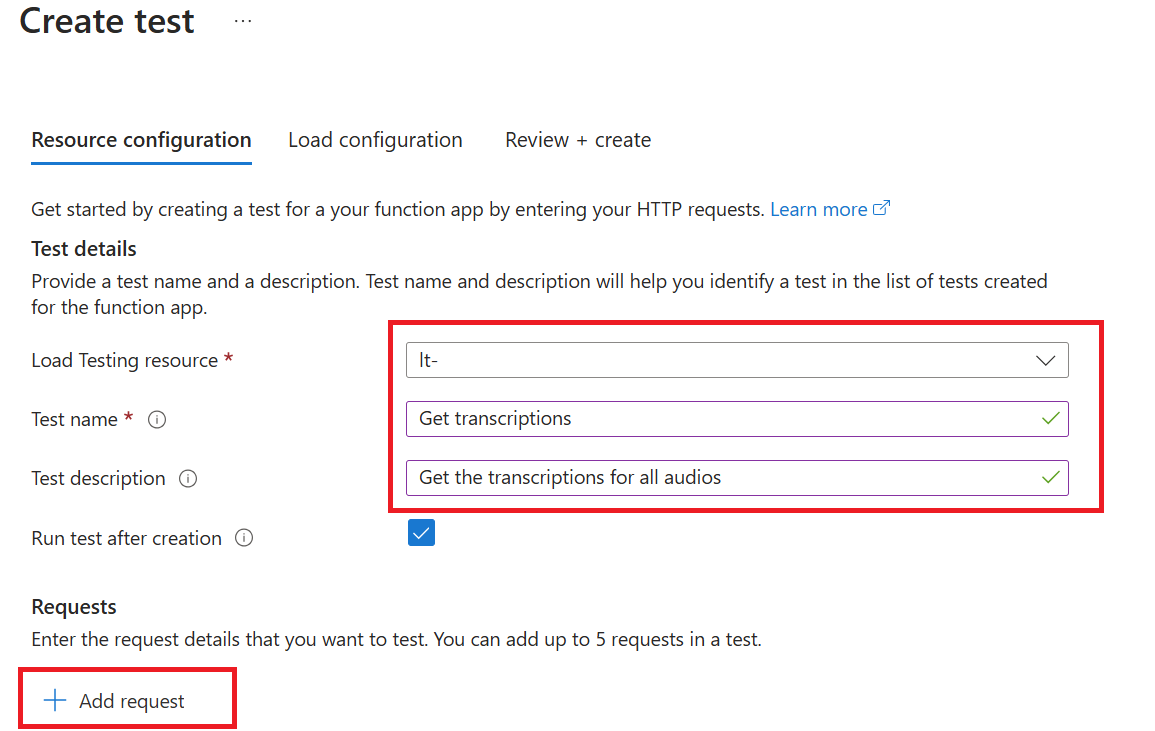
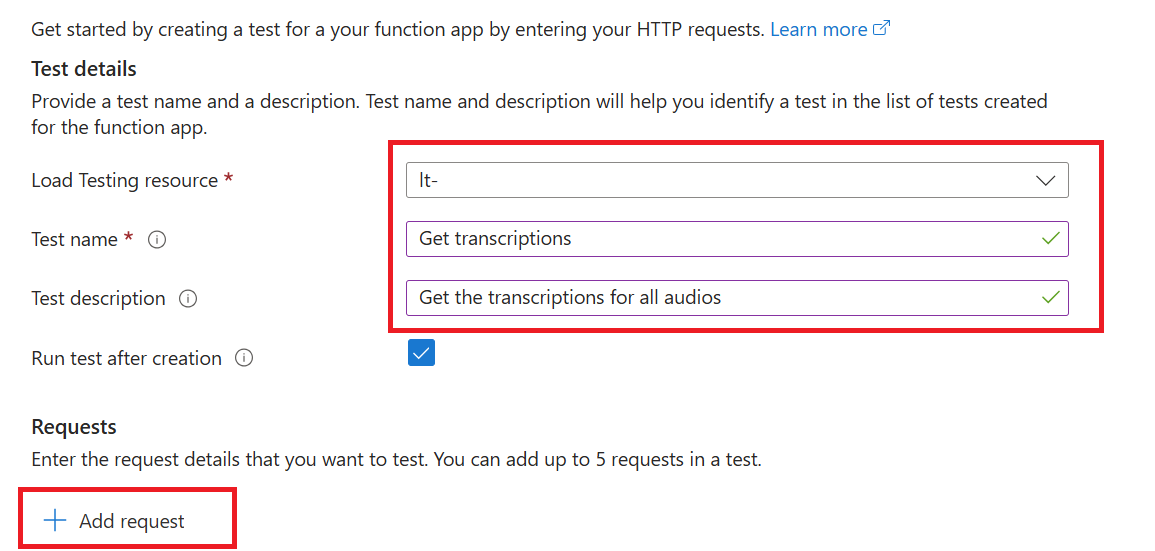
feat: Update infra as code and Azure Functions.

diff --git a/solutions/FuncDurable/AudioTranscriptionOrchestration.cs b/solutions/FuncDurable/AudioTranscriptionOrchestration.cs
@@ -157,7 +157,7 @@ namespace FuncDurable
         [Function(nameof(EnrichTranscription))]
         public static AudioTranscription EnrichTranscription(
             [ActivityTrigger] AudioTranscription audioTranscription, FunctionContext executionContext,
-            [TextCompletionInput("Summarize {Result}", Model = "%CHAT_MODEL_DEPLOYMENT_NAME%")] TextCompletionResponse response
+            [TextCompletionInput("Summarize {Result}", ChatModel = "%CHAT_MODEL_DEPLOYMENT_NAME%")] TextCompletionResponse response
         )
         {
             ILogger logger = executionContext.GetLogger(nameof(EnrichTranscription));

diff --git a/solutions/Lab7FuncDurable/AudioTranscriptionOrchestration.cs b/solutions/Lab7FuncDurable/AudioTranscriptionOrchestration.cs
@@ -157,7 +157,7 @@ namespace FuncDurable
         [Function(nameof(EnrichTranscription))]
         public static AudioTranscription EnrichTranscription(
             [ActivityTrigger] AudioTranscription audioTranscription, FunctionContext executionContext,
-            [TextCompletionInput("Summarize {Result}", Model = "%CHAT_MODEL_DEPLOYMENT_NAME%")] TextCompletionResponse response
+            [TextCompletionInput("Summarize {Result}", ChatModel = "%CHAT_MODEL_DEPLOYMENT_NAME%")] TextCompletionResponse response
         )
         {
             ILogger logger = executionContext.GetLogger(nameof(EnrichTranscription));

diff --git a/solutions/Lab1FuncStd/AudioUpload.cs b/solutions/Lab1FuncStd/AudioUpload.cs
@@ -1,15 +1,16 @@
 using Microsoft.Azure.Functions.Worker;
+using Microsoft.Azure.Functions.Worker.Http;
 using Microsoft.Extensions.Logging;
 using Microsoft.AspNetCore.Http;
 using Microsoft.AspNetCore.Mvc;
 
 namespace FuncStd
-{
-    public class AudioUploadOutput
+{    public class AudioUploadOutput
     {
         [BlobOutput("%STORAGE_ACCOUNT_CONTAINER%/{rand-guid}.wav", Connection = "AudioUploadStorage")]
-        public byte[] Blob { get; set; }
+        public required byte[] Blob { get; set; }
 
+        [HttpResult]
         public required IActionResult HttpResponse { get; set; }
     }
 

diff --git a/solutions/Lab2FuncStd/AudioUpload.cs b/solutions/Lab2FuncStd/AudioUpload.cs
@@ -1,15 +1,16 @@
 using Microsoft.Azure.Functions.Worker;
+using Microsoft.Azure.Functions.Worker.Http;
 using Microsoft.Extensions.Logging;
 using Microsoft.AspNetCore.Http;
 using Microsoft.AspNetCore.Mvc;
 
 namespace FuncStd
-{
-    public class AudioUploadOutput
+{    public class AudioUploadOutput
     {
         [BlobOutput("%STORAGE_ACCOUNT_CONTAINER%/{rand-guid}.wav", Connection = "AudioUploadStorage")]
-        public byte[] Blob { get; set; }
+        public required byte[] Blob { get; set; }
 
+        [HttpResult]
         public required IActionResult HttpResponse { get; set; }
     }
 

diff --git a/solutions/Lab4FuncStd/AudioUpload.cs b/solutions/Lab4FuncStd/AudioUpload.cs
@@ -1,15 +1,16 @@
 using Microsoft.Azure.Functions.Worker;
+using Microsoft.Azure.Functions.Worker.Http;
 using Microsoft.Extensions.Logging;
 using Microsoft.AspNetCore.Http;
 using Microsoft.AspNetCore.Mvc;
 
 namespace FuncStd
-{
-    public class AudioUploadOutput
+{    public class AudioUploadOutput
     {
         [BlobOutput("%STORAGE_ACCOUNT_CONTAINER%/{rand-guid}.wav", Connection = "AudioUploadStorage")]
-        public byte[] Blob { get; set; }
+        public required byte[] Blob { get; set; }
 
+        [HttpResult]
         public required IActionResult HttpResponse { get; set; }
     }
 

diff --git a/docs/workshop.md b/docs/workshop.md
@@ -335,7 +335,7 @@ func init --worker-runtime dotnet-isolated --target-framework net8.0
 func new --name AudioUpload --template 'HTTP Trigger'
 
 # Add a new Nuget package dependency to the Blob storage SDK
-dotnet add package Microsoft.Azure.Functions.Worker.Extensions.Storage.Blobs --version 6.6.0
+dotnet add package Microsoft.Azure.Functions.Worker.Extensions.Storage.Blobs --version 6.7.0
 ```
 
 ### .NET 8 implementation
@@ -658,10 +658,10 @@ cd FuncDurable
 func init --worker-runtime dotnetIsolated --target-framework net8.0
 
 # Add the Nuget package for Storage Account to use for Functions
-dotnet add package Microsoft.Azure.Functions.Worker.Extensions.Storage.Blobs --version 6.6.0
+dotnet add package Microsoft.Azure.Functions.Worker.Extensions.Storage.Blobs --version 6.7.0
 
 # Add the Nuget package to use Durable Functions
-dotnet add package Microsoft.Azure.Functions.Worker.Extensions.DurableTask --version 1.0.0
+dotnet add package Microsoft.Azure.Functions.Worker.Extensions.DurableTask --version 1.4.0
 ```
 
 Add the `Audio.cs` file with the content provided above. Then create a new file called `AudioTranscriptionOrchestration.cs` to create the orchestration of the entire Azure Function.
@@ -979,7 +979,7 @@ namespace FuncDurable
 ```
 </details>
 
-Below is the orchestration part of the `AudioTranscriptionOrchestration.cs` file where you will have to implement the different steps of the orchestration marked by `TODO`:
+Below is the orchestration part of the `AudioTranscriptionOrchestration.cs` file where you will have to implement the different steps of the orchestration marked by `TODO`. Add it in the class `AudioTranscriptionOrchestration.cs` you created earlier:
 
 <details>
 <summary>📄 AudioTranscriptionOrchestration.cs</summary>
@@ -1181,7 +1181,7 @@ You now have a transcription of your audio file, next step is to store it in a N
 Because you need to connect to Azure Cosmos DB with the `CosmosDBOutput` binding you need to first add the associated Nuget Package:
 
 ```bash
-dotnet add package Microsoft.Azure.Functions.Worker.Extensions.CosmosDB --version 4.9.0
+dotnet add package Microsoft.Azure.Functions.Worker.Extensions.CosmosDB --version 4.12.0
 ```
 
 Then to store the transcription of the audio file in Cosmos DB, you will need to create a new `Activity Function` called `SaveTranscription` in the `AudioTranscriptionOrchestration.cs` file and apply the `CosmosDBOutput` binding to store the data in the Cosmos DB:
@@ -1398,7 +1398,7 @@ namespace FuncStd
 Finally, add the `Microsoft.Azure.Functions.Worker.Extensions.CosmosDB` Nuget package to your project by running the following command:
 
 ```sh
-dotnet add package Microsoft.Azure.Functions.Worker.Extensions.CosmosDB --version 4.9.0
+dotnet add package Microsoft.Azure.Functions.Worker.Extensions.CosmosDB --version 4.12.0
 ```
 
 Redeploy the `func-std` Function App to add this new endpoint.
@@ -1430,7 +1430,8 @@ If you look at the environment variables of the `func-std` Function App, you wil
 
 1. Locate the Function App in the Azure Portal which start with `func-std`
 1. Click on the `Load Testing (Preview)` blade
-1. Click on the `Create test` button
+1. Click on the `Create test` button in the middle of the page
+1. In the `Test plan` tab
 1. Select the existing Azure Load Testing resource inside your resource group and provide a short name and description of the test:
 
 ![Create test](assets/monitoring-create-test.png)
@@ -1442,7 +1443,7 @@ If you look at the environment variables of the `func-std` Function App, you wil
 ![Add request](assets/monitoring-get-transcriptions-requests.png)
 
 
-1. Select the tab `Load configuration` and set `Test duration (minutes)` to 3
+1. Select the tab `Load` and set `Test duration (minutes)` to 3
 1. Click on `Review + create` then on `Create`
 1. The test will take few seconds to get created and then you should see a popup telling you that the test has started.
 
@@ -1688,7 +1689,7 @@ So the scope of the lab is this one:
 Inside your `FuncDurable` let's add the following version of `Microsoft.Azure.Functions.Worker.Extensions.OpenAI`:
 
 ```bash
-dotnet add package Microsoft.Azure.Functions.Worker.Extensions.OpenAI --version 0.17.0-alpha
+dotnet add package Microsoft.Azure.Functions.Worker.Extensions.OpenAI --version 0.19.0-alpha
 ```
 
 ### Add environment variables
@@ -1735,7 +1736,7 @@ First, you need to add the `TextCompletionInput` binding to the `EnrichTranscrip
 [Function(nameof(EnrichTranscription))]
 public static AudioTranscription EnrichTranscription(
     [ActivityTrigger] AudioTranscription audioTranscription, FunctionContext executionContext,
-    [TextCompletionInput("Summarize {Result}", Model = "%CHAT_MODEL_DEPLOYMENT_NAME%")] TextCompletionResponse response
+    [TextCompletionInput("Summarize {Result}", ChatModel = "%CHAT_MODEL_DEPLOYMENT_NAME%")] TextCompletionResponse response
 )
 ```
 
@@ -1761,7 +1762,7 @@ So, to summarize, the function will look like this:
 [Function(nameof(EnrichTranscription))]
 public static AudioTranscription EnrichTranscription(
     [ActivityTrigger] AudioTranscription audioTranscription, FunctionContext executionContext,
-    [TextCompletionInput("Summarize {Result}", Model = "%CHAT_MODEL_DEPLOYMENT_NAME%")] TextCompletionResponse response
+    [TextCompletionInput("Summarize {Result}", ChatModel = "%CHAT_MODEL_DEPLOYMENT_NAME%")] TextCompletionResponse response
 )
 {
     ILogger logger = executionContext.GetLogger(nameof(EnrichTranscription));
